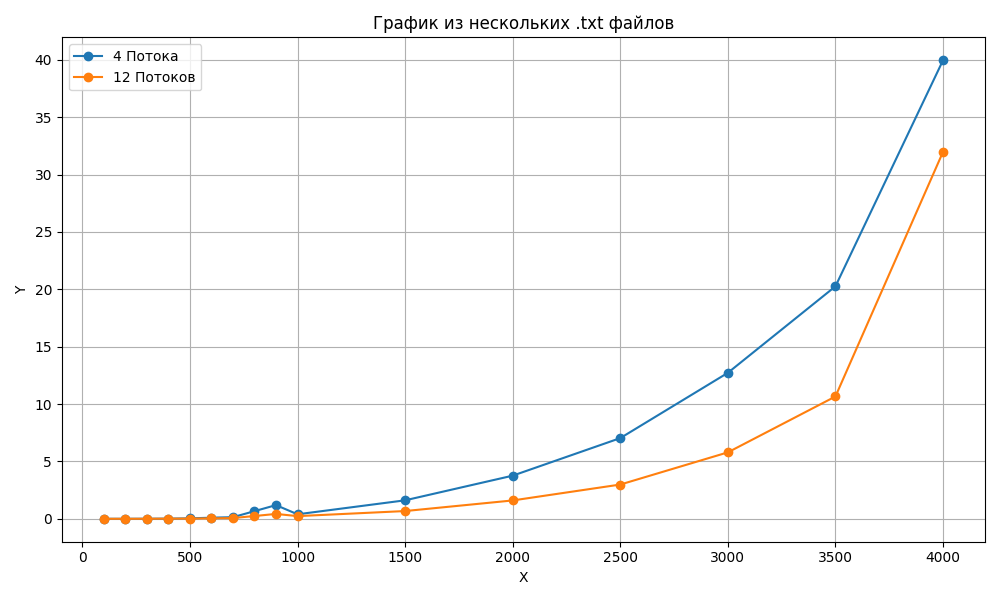
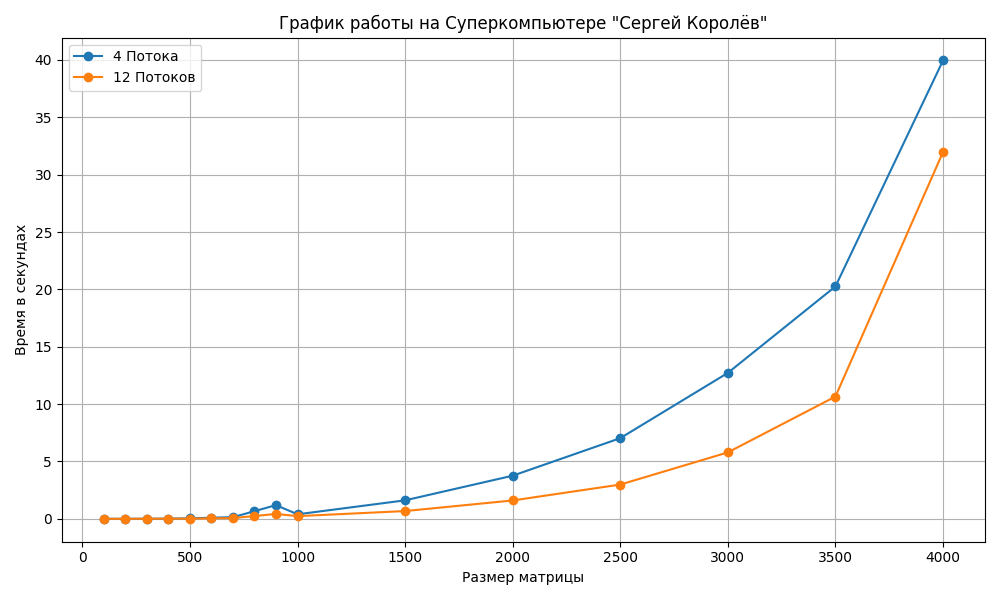
finally all done

diff --git a/lab_3/korolev/Graph.py b/lab_3/korolev/Graph.py
@@ -19,9 +19,9 @@ for file, label in zip(files, labels):
                     y.append(y_val)
     plt.plot(x, y, marker='o', label=label)
 
-plt.xlabel('X')
-plt.ylabel('Y')
-plt.title('График из нескольких .txt файлов')
+plt.xlabel('Размер матрицы')
+plt.ylabel('Время в секундах')
+plt.title('График работы на Суперкомпьютере "Сергей Королёв"')
 plt.legend()
 plt.grid(True)
 plt.tight_layout()

diff --git a/lab_3/report.md b/lab_3/report.md
@@ -43,9 +43,9 @@
 ![График](https://github.com/Darowiin/ParallelProgramming/blob/main/lab_3/korolev.png)
 На суперкомпьютере алогритм показывает более стабильную работу (происходит практически трехкратное улучшение при увеличении кол-ва потоков в три раза).
 
-[Вывод 4 потока](https://github.com/Darowiin/ParallelProgramming/blob/main/Lab_3/korolev/4.txt)
+[Вывод 4 потока](https://github.com/Darowiin/ParallelProgramming/blob/main/lab_3/korolev/4.txt)
 
-[Вывод_12 потоков](https://github.com/Darowiin/ParallelProgramming/blob/main/Lab_3/korolev/12.txt)
+[Вывод_12 потоков](https://github.com/Darowiin/ParallelProgramming/blob/main/lab_3/korolev/12.txt)
 
 ## Вывод
 Использование MPI позволило эффективно распараллелить вычисления. Прирост производительности получился лучше, чем при использовании OpenMP, особенно при работе с большими матрицами. Однако масштабируемость ограничивается накладными расходами на передачу данных и синхронизацию между процессами.  
